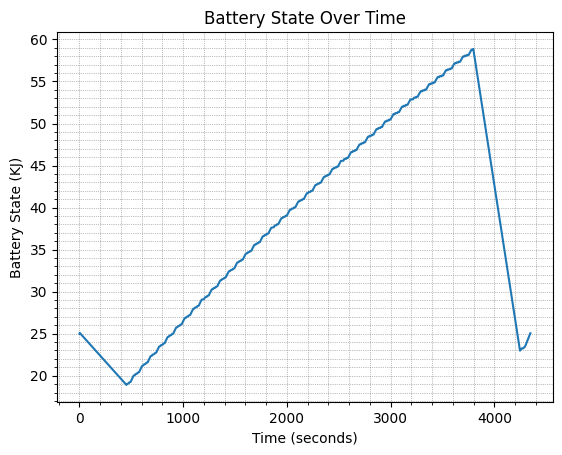
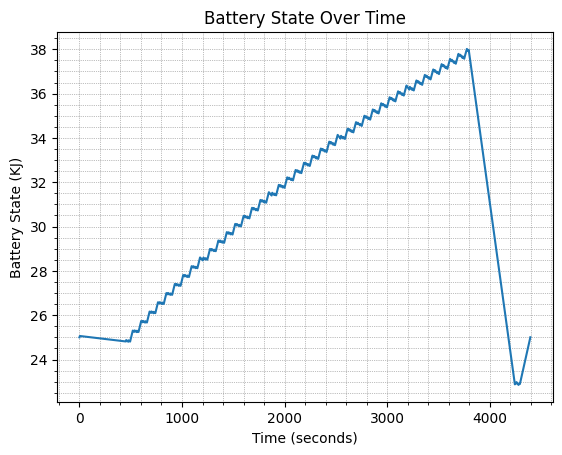
update

diff --git a/Bilan/Rover.py b/Bilan/Rover.py
@@ -15,7 +15,7 @@ class rover:
         self.mass = self.drymass
         self.cruise_speed = 0.1
 
-        self.solar_power = 93.5
+        self.solar_power = 82
 
         self.gravity = 1.62
 
@@ -33,11 +33,12 @@ class rover:
 
     def power_rouler(self, vitesse = 0.1):
         Fs = 1
+        mu_regolithe = 0.5
         mass = self.mass
         eff_moteur = 0.9
         eff_worm_gear = 0.9
 
-        P = self.gravity*mass*vitesse/(eff_moteur*eff_worm_gear)
+        P = mu_regolithe*self.gravity*mass*vitesse/(eff_moteur*eff_worm_gear)
 
         return P*Fs
 
